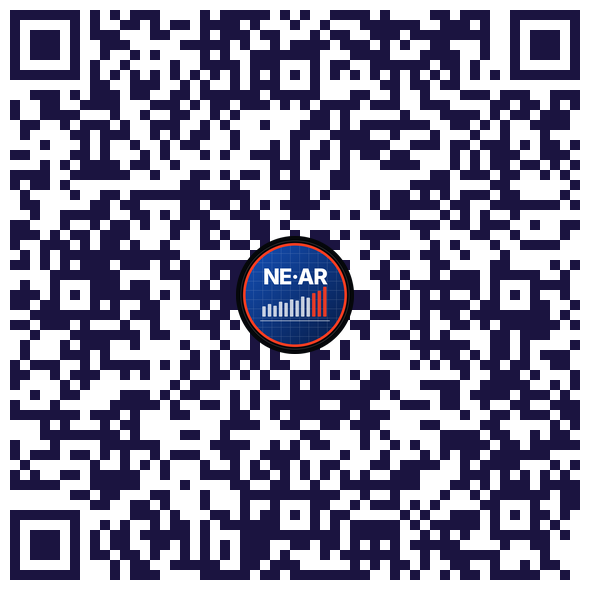
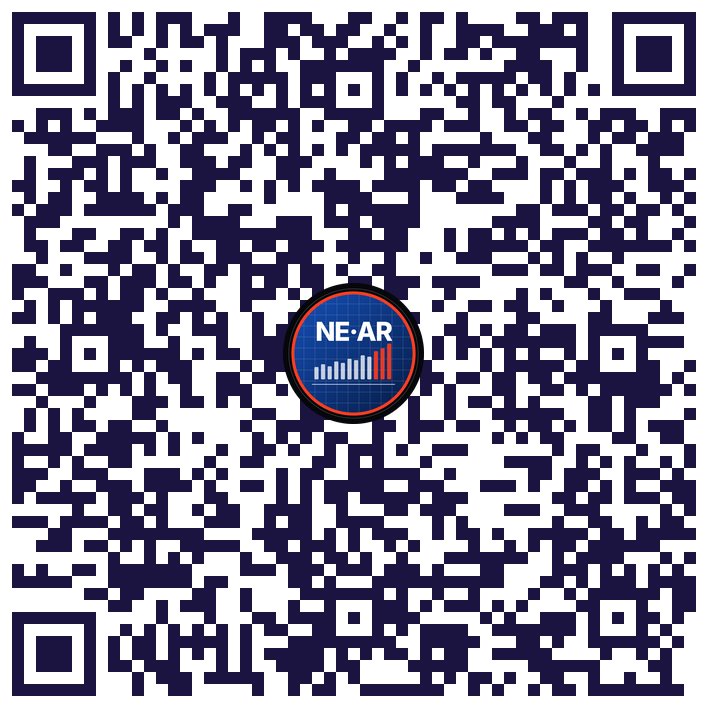
Use a stable Dropbox download link for the Android app

diff --git a/index.html b/index.html
@@ -1113,7 +1113,7 @@ $('#homeDemo').addEventListener('click',()=>{ location.hash='#detective'; setTim
 const GUIDE={v:'rain',l:'sundarbans'};
 // Links for the deliverables, the end of the questionnaire, the AR page and the e-book. Paste new links here.
 // An empty string shows the button as "coming soon".
-const LINKS={arApp:'https://climate-detective.vercel.app/',arWeb:'https://vivivarm.github.io/ne-ar-trend-detective/#ar',apk:'https://www.dropbox.com/scl/fi/et3p8otrjsk3ac27pc4bi/near_app.apk?rlkey=9e3yazl18ehz79r2jk7ebhppz&st=qiejoeoj&dl=1',ebook:'https://ne-ar-diaries-indo-gangetic.netlify.app',demo:'https://docs.google.com/presentation/d/1SbZswqvLWGxeO9l4MobKohJeVDr151Gp0hYRWDdOSRM/edit?usp=sharing',apkDrive:''};
+const LINKS={arApp:'https://climate-detective.vercel.app/',arWeb:'https://vivivarm.github.io/ne-ar-trend-detective/#ar',apk:'https://www.dropbox.com/scl/fi/et3p8otrjsk3ac27pc4bi/near_app.apk?rlkey=9e3yazl18ehz79r2jk7ebhppz&dl=1',ebook:'https://ne-ar-diaries-indo-gangetic.netlify.app',demo:'https://docs.google.com/presentation/d/1SbZswqvLWGxeO9l4MobKohJeVDr151Gp0hYRWDdOSRM/edit?usp=sharing',apkDrive:''};
 const S={guided:true,step:1,max:1,v:null,l:null,key:null,view:'raw',y0:1981,y1:2025,method:'mk',season:'all',tested:false,future:'act',bandYear:2025,result:null};
 const VV=()=>VARS.find(v=>v.id===S.v), M=()=>META[S.key], arrS=()=>SER[S.key];
 const STEPS=['Q1 Variable','Q2 Location','Evidence','Test','Normal?','Verdict'];
@@ -1160,7 +1160,7 @@ function answerCard(){ const m=M(), K=KIND[m.kind], v=VV(), R=REG[S.l], c=comput
 function renderLinks(){ $$('[data-link]').forEach(a=>{ const u=LINKS[a.dataset.link]; if(u){ a.hidden=false; a.href=u; a.removeAttribute('aria-disabled'); a.removeAttribute('tabindex'); if(a.dataset.label){ a.textContent=a.dataset.label; } }
     else if(a.hasAttribute('data-optional')){ a.hidden=true; } else { if(!a.dataset.label) a.dataset.label=a.textContent; a.removeAttribute('href'); a.setAttribute('aria-disabled','true'); a.setAttribute('tabindex','-1'); a.textContent=a.dataset.label.replace(/ ↗$/,'')+' · coming soon'; } });
   $$('[data-qr]').forEach(f=>{ const u=LINKS[f.dataset.qr]; const box=f.querySelector('.qr-img'); if(!u||typeof qrcode!=='function'){ f.hidden=true; return; } f.hidden=false;
-    if(box.dataset.u===u) return; if(f.dataset.qr==='apk'){ box.innerHTML='<img src="assets/qr-apk-square.png" alt="QR code to download the NE-AR Android app" width="590" height="590" style="width:100%;height:100%;display:block">'; box.dataset.u=u; return; } try{ const q=qrcode(0,'M'); q.addData(u); q.make(); box.innerHTML=q.createSvgTag({cellSize:4,margin:0,scalable:true}); box.dataset.u=u; }catch(e){ f.hidden=true; } });
+    if(box.dataset.u===u) return; if(f.dataset.qr==='apk'){ box.innerHTML='<img src="assets/qr-apk-square.png" alt="QR code to download the NE-AR Android app" width="708" height="708" style="width:100%;height:100%;display:block">'; box.dataset.u=u; return; } try{ const q=qrcode(0,'M'); q.addData(u); q.make(); box.innerHTML=q.createSvgTag({cellSize:4,margin:0,scalable:true}); box.dataset.u=u; }catch(e){ f.hidden=true; } });
   $$('[data-link-note]').forEach(p=>{ p.textContent=''; p.hidden=true; }); }
 /* step 1 */
 function aodWitness(reg){ const mo=AOD_MODIS[reg], me=SER['AOD_'+reg]; if(!mo||!me) return null; const ann=(arr,off)=>{ const out=[]; for(let y=2003;y<=2025;y++){ const v=[]; for(let i=0;i<12;i++){ const x=arr[(y-2003)*12+i+off]; if(x!=null) v.push(x); } if(v.length>=10) out.push({year:y,value:v.reduce((a,b)=>a+b,0)/v.length}); } return out; };

diff --git a/sw.js b/sw.js
@@ -1,7 +1,7 @@
 /* NE-AR offline support: the site and its NASA data keep working without internet.
    Pages: network first (always the newest version when online), cache as fallback.
    Files and fonts: cache first. Live NASA services and the contact form are never cached. */
-const CACHE='ne-ar-v9';
+const CACHE='ne-ar-v10';
 const CORE=['./','index.html','ar/himalaya.glb','ar/thar.glb','ar/sundarbans.glb','ar/himalaya.usdz','ar/thar.usdz','ar/sundarbans.usdz','assets/model-viewer.min.js','assets/i18n-es.js','data/cmip6-projections.json','manifest.webmanifest','assets/icon-192.png','assets/apple-touch-icon.png'];
 self.addEventListener('install',e=>{ e.waitUntil(caches.open(CACHE).then(c=>c.addAll(CORE)).then(()=>self.skipWaiting())); });
 self.addEventListener('activate',e=>{ e.waitUntil(caches.keys().then(ks=>Promise.all(ks.filter(k=>k!==CACHE).map(k=>caches.delete(k)))).then(()=>self.clients.claim())); });
